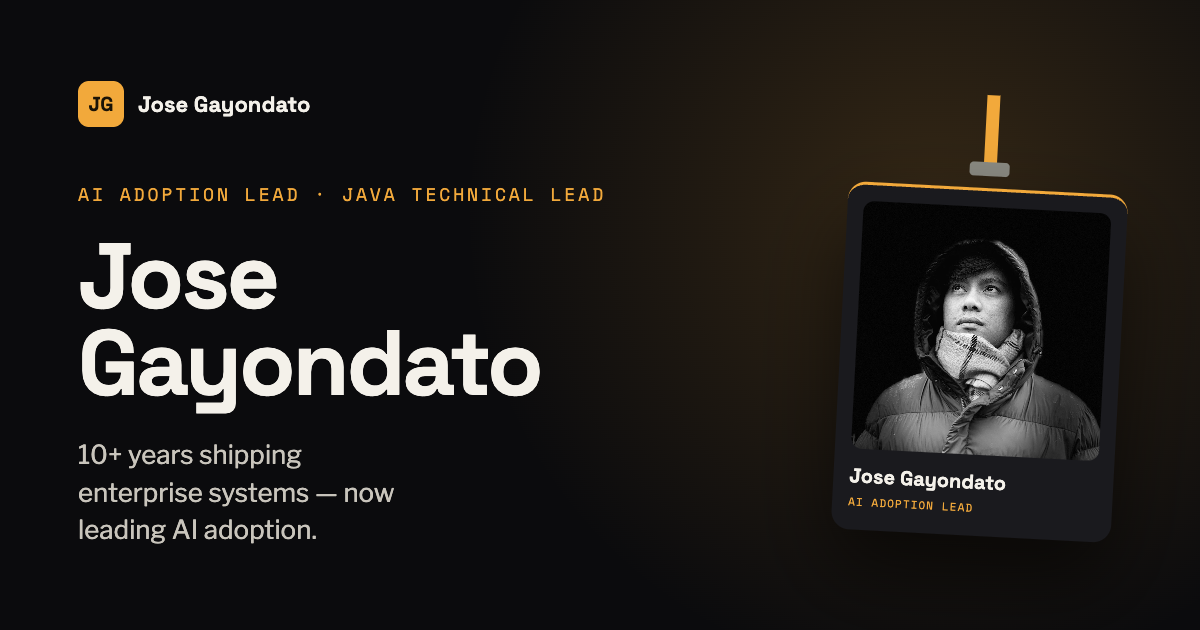
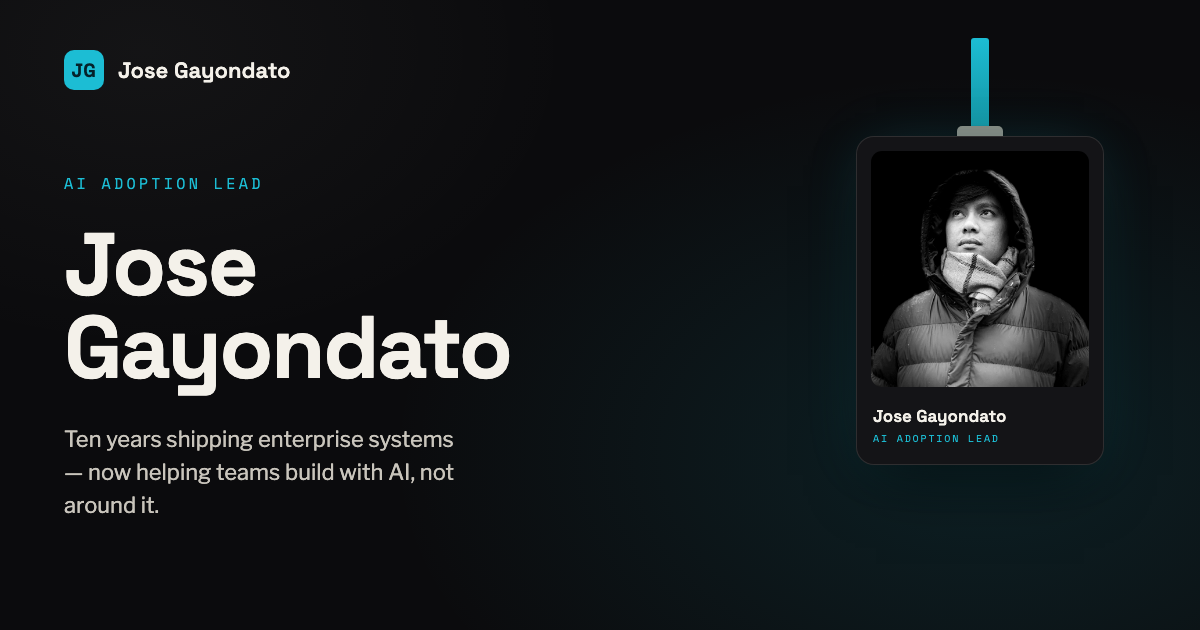
style(theme): switch accent from amber to cyan
Swap the one signal color amber #f2a93b -> cyan #1cbdd4 across tokens,
buttons, selection, 3D badge strap+emblem, and favicon. Regenerate
og-image.png + apple-touch-icon.png to match (and refresh OG copy to
current AI-Adoption-Lead positioning, dropping the stale Java line).

diff --git a/src/js/lanyard/LanyardBadge.js b/src/js/lanyard/LanyardBadge.js
@@ -1,6 +1,6 @@
 // Draggable 3D lanyard badge — React Three Fiber + rapier rope physics.
 // Ported from the original esm.sh build to npm-vendored deps so it bundles
-// locally and works everywhere (incl. Brave). Recolored to Obsidian + Amber.
+// locally and works everywhere (incl. Brave). Recolored to Obsidian + Cyan.
 import React, { useRef, useState, useEffect } from "react";
 import { createRoot } from "react-dom/client";
 import * as THREE from "three";
@@ -87,7 +87,7 @@ function updateStrap(geo, pts, twist) {
   geo.computeBoundingSphere();
 }
 
-/* ---------- card texture compositing (Obsidian + Amber back) ---------- */
+/* ---------- card texture compositing (Obsidian + Cyan back) ---------- */
 function buildCardTexture(imageSrc, cardColor) {
   return new Promise((resolve) => {
     const res = 1024;
@@ -107,7 +107,7 @@ function buildCardTexture(imageSrc, cardColor) {
       ctx.strokeStyle = "rgba(244,241,234,0.16)";
       ctx.lineWidth = 3;
       ctx.strokeRect(x0 + 46, 46, res / 2 - 92, res - 92);
-      // centered ring emblem — outer warm-white, inner amber
+      // centered ring emblem — outer warm-white, inner cyan
       const cx = x0 + res / 4;
       const cy = res / 2;
       ctx.strokeStyle = "rgba(244,241,234,0.85)";
@@ -117,7 +117,7 @@ function buildCardTexture(imageSrc, cardColor) {
       ctx.stroke();
       ctx.beginPath();
       ctx.arc(cx, cy, 70, 0, Math.PI * 2);
-      ctx.strokeStyle = "rgba(242,169,59,0.55)";
+      ctx.strokeStyle = "rgba(28,189,212,0.55)";
       ctx.lineWidth = 3;
       ctx.stroke();
     };

diff --git a/src/css/tokens.css b/src/css/tokens.css
@@ -1,6 +1,6 @@
 /* ============================================================
-   Design tokens — Obsidian + Amber
-   Near-black canvas, one warm amber signal, warm-white type.
+   Design tokens — Obsidian + Cyan
+   Near-black canvas, one bright cyan signal, warm-white type.
    ============================================================ */
 :root {
   /* ---- color ---- */
@@ -15,10 +15,10 @@
   --text-1: #c9c5bc;        /* body */
   --muted: #9a958c;         /* eyebrows / captions (clears WCAG AA on --bg) */
 
-  --accent: #f2a93b;        /* the one signal */
-  --accent-press: #d9912a;
-  --accent-soft: rgba(242, 169, 59, 0.14);
-  --accent-line: rgba(242, 169, 59, 0.32);
+  --accent: #1cbdd4;        /* the one signal */
+  --accent-press: #179bae;
+  --accent-soft: rgba(28, 189, 212, 0.14);
+  --accent-line: rgba(28, 189, 212, 0.32);
 
   /* badge */
   --badge-card: #1a1a1e;

diff --git a/src/css/base.css b/src/css/base.css
@@ -67,7 +67,7 @@ ul {
 
 ::selection {
   background: var(--accent);
-  color: #1a1306;
+  color: #04222a;
 }
 
 :focus-visible {
@@ -84,7 +84,7 @@ ul {
   transform: translateX(-50%);
   z-index: 200;
   background: var(--accent);
-  color: #1a1306;
+  color: #04222a;
   font-family: var(--font-mono);
   font-size: 13px;
   padding: 10px 18px;

diff --git a/src/js/lanyard/index.js b/src/js/lanyard/index.js
@@ -38,7 +38,7 @@ export function initLanyard({ onReady } = {}) {
           image: profileUrl,
           cardColor: "#1a1a1e",
           clipColor: "#8a8a82",
-          strapColor: "#f2a93b",
+          strapColor: "#1cbdd4",
           onReady: () => {
             if (hero) hero.classList.add("is-3d");
             onReady && onReady();

diff --git a/src/css/layout.css b/src/css/layout.css
@@ -113,7 +113,7 @@
   width: 34px;
   height: 34px;
   background: var(--accent);
-  color: #1a1306;
+  color: #04222a;
   border-radius: var(--radius-sm);
   font-family: var(--font-display);
   font-weight: 700;

diff --git a/src/css/components.css b/src/css/components.css
@@ -24,7 +24,7 @@
 }
 .btn--primary {
   background: var(--accent);
-  color: #1a1306;
+  color: #04222a;
 }
 .btn--primary:hover {
   background: var(--accent-press);
